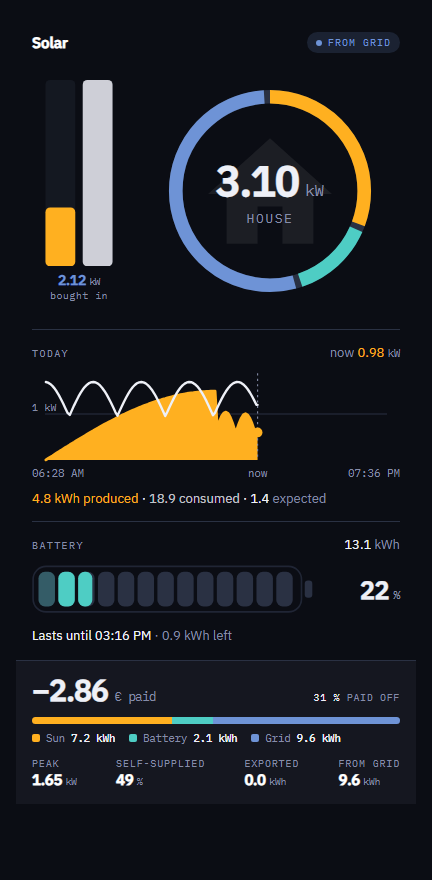
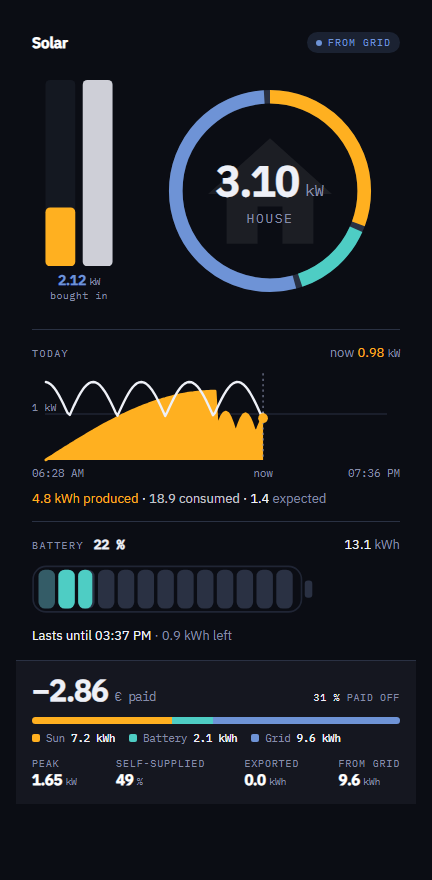
Give the bar its width back and move the charge to the heading
The percentage repeated what the bar was already showing, and it did it in the
largest type in the block — so a second figure had nowhere to go except
against it. Ten blocks are ten per cent; the number beside them said the same
thing twice, which is the rule the rest of the card keeps.

It is a small figure beside the heading now, where how full sits next to how
big, and it can be switched off entirely — then the bar speaks alone. The bar
is back to full width in both cases, because shortening the only picture in
the block to make room for text was the wrong trade.

The segments also fill more of their casing, so it reads as a cell rather than
a progress bar in a box.

Claude-Session: https://claude.ai/code/session_01WYfcA1x3pZN41ubiYaXPxj

diff --git a/src/power-origin-card.ts b/src/power-origin-card.ts
@@ -1197,7 +1197,16 @@ export class PowerOriginCard extends LitElement {
     return html`
       <div class="row">
         <div class="row-head">
-          <span class="row-title">${localize("battery.title", locale)}</span>
+          <span class="row-title"
+            >${localize("battery.title", locale)}${config.battery.percent
+              ? html`<span class="row-pct"
+                  >${this._linked(
+                    config.entities.battery_soc,
+                    html`${formatNumber(soc, locale, 0)} %`
+                  )}</span
+                >`
+              : nothing}</span
+          >
           ${config.battery_capacity
             ? html`<span class="row-note"
                 >${formatNumber(config.battery_capacity / 1000, locale, 1)}
@@ -1264,11 +1273,11 @@ export class PowerOriginCard extends LitElement {
     const extra = this._batteryExtra(locale);
 
     // Without a casing the bar may use the width the cap would have taken.
-    const shellW = extra ? (bare ? 150 : 142) : bare ? 259 : 248;
+    const shellW = extra ? (bare ? 236 : 228) : bare ? 259 : 248;
     const innerStart = bare ? 0 : 6;
     const innerWidth = bare ? shellW : shellW - 10;
-    const top = bare ? 12 : 10;
-    const tall = bare ? 28 : 32;
+    const top = bare ? 12 : 8;
+    const tall = bare ? 28 : 36;
     const radius = bare ? 4 : 6;
 
     const reserve =
@@ -1324,16 +1333,7 @@ export class PowerOriginCard extends LitElement {
             <text class="bat-extra-k" x="340" y="${top + 26}" text-anchor="end"
               >${extra.label}</text>`
           : nothing}
-        ${(() => {
-          const id = (this._config as ResolvedConfig).entities.battery_soc;
-          const on = id && (this._hass as HomeAssistant)?.states?.[id];
-          const handlers = on ? this._tap(id!) : undefined;
-          return svg`<text class="bat-pct ${on ? "tap" : ""}"
-            x="${extra ? shellW + 20 : 340}" y="35"
-            text-anchor="${extra ? "start" : "end"}" tabindex="${on ? 0 : -1}"
-            @click=${handlers?.click} @keydown=${handlers?.key}
-            >${formatNumber(soc, locale, 0)}<tspan dx="4">%</tspan></text>`;
-        })()}
+
       </svg>`;
   }
 

diff --git a/src/config.ts b/src/config.ts
@@ -53,6 +53,7 @@ export const DEFAULTS = {
     runtime: true,
     runtime_window: 30,
     reserve_line: true,
+    percent: true,
     extra: "none" as const
   },
   today: {
@@ -618,6 +619,7 @@ export function getConfigForm(locale?: string, current?: PowerOriginCardConfig) 
               selector: { number: { min: 0, max: 20, mode: "box" } }
             }),
             { name: "runtime", selector: { boolean: {} } },
+            { name: "percent", selector: { boolean: {} } },
             ...only((resolved) => resolved.battery_reserve > 0, {
               name: "reserve_line",
               selector: { boolean: {} }
@@ -763,6 +765,7 @@ export function getConfigForm(locale?: string, current?: PowerOriginCardConfig) 
     runtime: t("editor.runtime"),
     runtime_window: t("editor.runtime_window"),
     reserve_line: t("editor.reserve_line"),
+    percent: t("editor.percent"),
     extra: t("editor.extra"),
     money: t("editor.money"),
     breakdown: t("editor.breakdown"),
@@ -781,6 +784,7 @@ export function getConfigForm(locale?: string, current?: PowerOriginCardConfig) 
   };
 
   const helpers: Record<string, string> = {
+    percent: t("editor.help_percent"),
     reserve_line: t("editor.help_reserve_line"),
     extra: t("editor.help_extra"),
     compare: t("editor.help_compare"),

diff --git a/src/localize.ts b/src/localize.ts
@@ -75,6 +75,8 @@ const en: Table = {
   "battery.cycles": "cycles",
   "battery.saved": "not bought",
   "battery.given": "given out",
+  "editor.percent": "State of charge in percent",
+  "editor.help_percent": "Beside the heading, next to the capacity: how full next to how big. The bar says how full as well, so this is the figure and not the picture — switch it off and the bar speaks alone.",
   "battery.title": "Battery",
   "battery.full": "Full",
   "battery.charging": "Charging with",
@@ -302,6 +304,8 @@ const de: Table = {
   "battery.cycles": "Zyklen",
   "battery.saved": "nicht gekauft",
   "battery.given": "abgegeben",
+  "editor.percent": "Ladestand in Prozent",
+  "editor.help_percent": "Neben der Überschrift, bei der Kapazität: wie voll neben wie groß. Der Balken sagt das auch, also ist dies die Zahl und nicht das Bild — abschalten, dann spricht der Balken allein.",
   "battery.title": "Speicher",
   "battery.full": "Voll",
   "battery.charging": "lädt mit",

diff --git a/src/styles.ts b/src/styles.ts
@@ -576,20 +576,6 @@ export const cardStyles = css`
     fill: var(--sst-track);
   }
 
-  .bat-pct {
-    font-size: calc(23px * var(--sst-scale));
-    font-weight: 700;
-    letter-spacing: -0.02em;
-    fill: var(--sst-ink);
-  }
-
-  .bat-pct tspan {
-    font-family: var(--sst-mono);
-    font-weight: 400;
-    font-size: calc(11px * var(--sst-scale));
-    fill: var(--sst-muted);
-  }
-
   .today {
     margin: 2px -16px 0;
     padding: 14px 16px 15px;
@@ -928,5 +914,14 @@ export const cardStyles = css`
     font-family: var(--sst-mono);
     font-size: calc(9.5px * var(--sst-scale));
     letter-spacing: 0.06em;
+  }
+
+  /* The figure, not the picture: the bar already says how full it is. */
+  .row-pct {
+    margin-left: 10px;
+    font-size: calc(13px * var(--sst-scale));
+    font-weight: 600;
+    letter-spacing: -0.01em;
+    color: var(--sst-ink);
   }
 `;

diff --git a/src/types.ts b/src/types.ts
@@ -131,6 +131,7 @@ export interface BatteryOptions {
   runtime?: boolean;
   runtime_window?: number;
   reserve_line?: boolean;
+  percent?: boolean;
   extra?: BatteryExtra;
 }
 

diff --git a/docs/OPTIONS.md b/docs/OPTIONS.md
@@ -138,6 +138,7 @@ today:
 | `battery.style` | `segments` | `segments`, `solid`, or `bar` without a casing. |
 | `battery.segments` | `0` | `0` gives one block per kilowatt hour of capacity. |
 | `battery.runtime_window` | `30` | Minutes averaged before dividing. |
+| `battery.percent` | `true` | The charge as a figure beside the heading. The bar says it too, so this is the number and not the picture. |
 | `battery.reserve_line` | `true` | A dashed line where the reserve begins, so a bar that reads full does not hide power that never comes out. Shown only when a reserve is set. |
 | `battery.extra` | `none` | A second figure beside the bar, which gives up width for it: `range` (lowest and highest today), `cycles`, `saved` (not bought), `given` (given out). |
 | `today.stats` | `[peak, autarky, export, import]` | Which four values appear at the bottom. |
